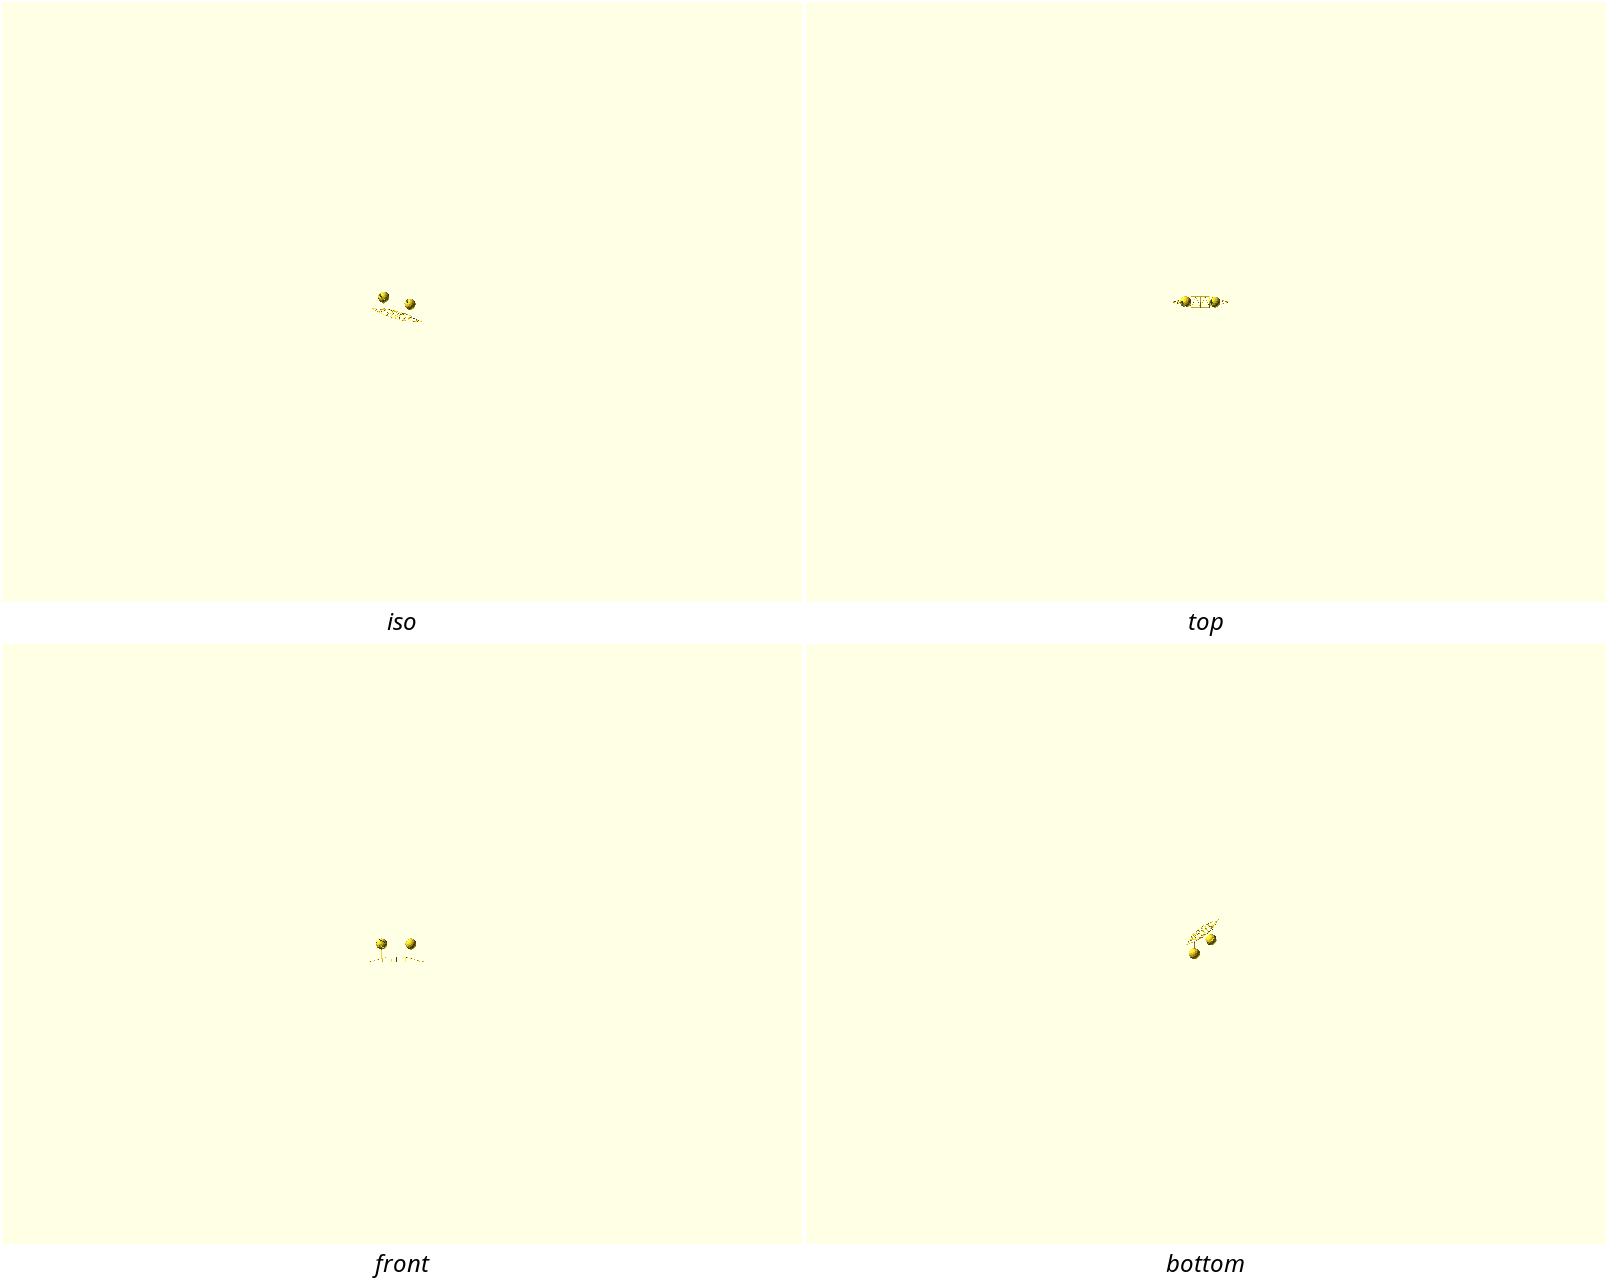
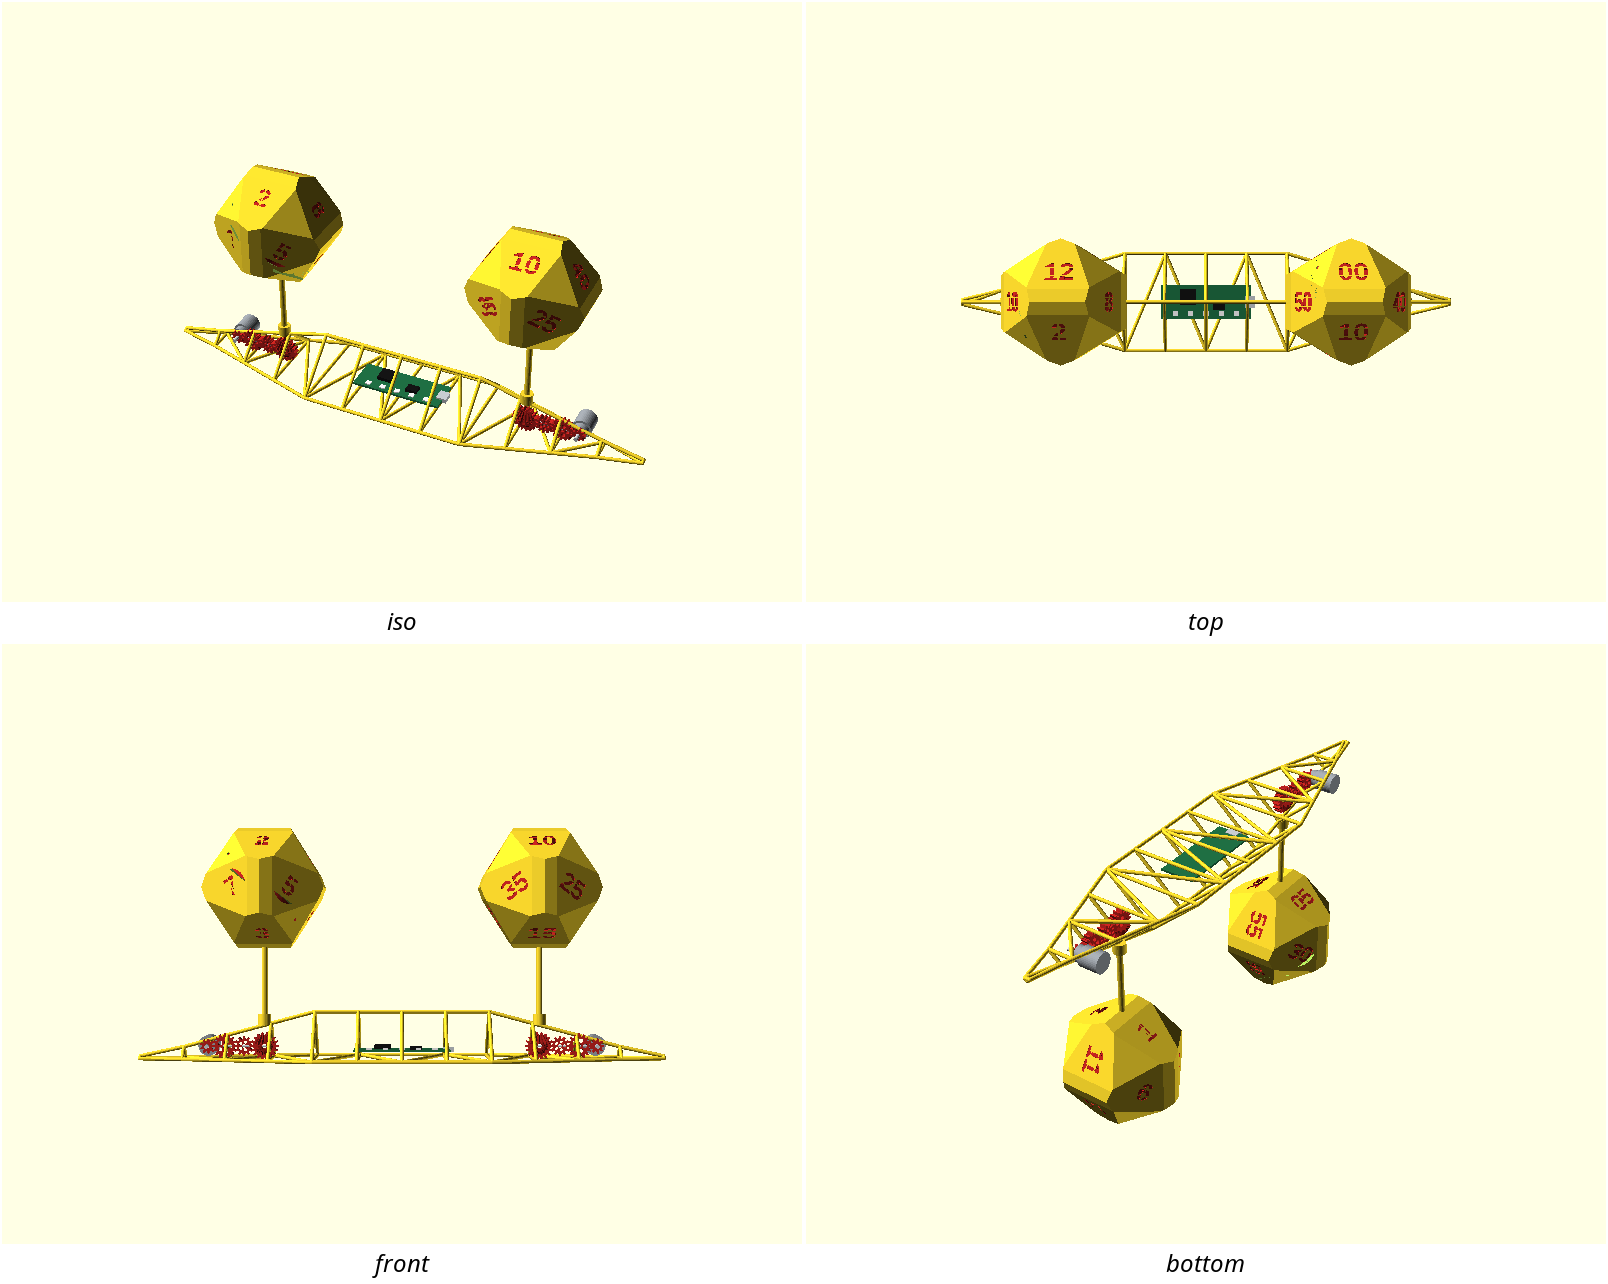
ovodyo: correctness + honesty pass — printable whole ball, keyed seam, bored boss
A fidelity audit found the deliverable couldn't build a complete ball: both
`hours-half` and `minutes-half` were the SAME z>=0 top dome, so hours 1/3/9/11
(and the minutes equivalents) existed on no printable part. Fixes, keeping the
deep mechanical fidelity to the tracked #600-604 issue-PRs:

- Split each ball POLE-UP (tilt atan2(1,PHI) so a pentagon sits at each pole),
  which runs the equatorial cut through the triangle band and bisects NO number
  face. Expose real top AND bottom parts: hours-top/hours-bottom/minutes-top/
  minutes-bottom. Top carries 12/2/4/6/8/10, bottom 1/3/5/7/9/11 — all 12 present
  and intact. Bottom half is flipped so both print flat-cut-face-down.
- Keyed seam register: three dowel bosses at irregular azimuths, drilled through
  the whole ball before the split so the two halves' holes register by
  construction and seat at one clocking (loose dowels + glue; the captive
  threaded/snap seam stays #602).
- Bore the stalk boss so the brass rod actually seats (was a solid stub).
- Make README/NOTES truthful: top+bottom halves and their number sets, the
  dowel-keyed seam, the bored boss, honest framing of the segment joints (#603)
  and the mock-drive sample.

Gate (CI manifold engine): the four ball halves 84/100 PRINTABLE WITH CAVEATS
(watertight, one body — no dropped counter, seam bisects no number),
base-segment/base-end/mock-drive 100/100, all slice, no CRITICAL. Previews
regenerated (the base gained the socket).
[…]

diff --git a/designs/ovodyo/NOTES.md b/designs/ovodyo/NOTES.md
@@ -62,8 +62,20 @@ were produced in-session (design study + `ovodyo-improvement-brainstorm.md`).
   *represent* the drive, they are not cut for a running fit. A real meshing
   involute differential gated as turning is still #604; the reusable
   `lib/spaceframe.scad` + red structural core stay #603.
-- **Printable unit = hemisphere:** a whole ball prints on a point (CRITICAL bed
-  contact). The ball halves cut at the equator and print flat-face-down.
+- **Printable unit = a numbered top + bottom half.** A whole ball prints on a
+  point (CRITICAL bed contact), so each ball splits in two. The split is
+  **pole-up**: the ball is tilted by `atan2(1,PHI)` so a pentagon face sits at
+  each ±z pole, which puts the equatorial cut through the triangle band and
+  bisects **no** number face — the top half carries 12/2/4/6/8/10, the bottom
+  1/3/5/7/9/11 (and the minutes equivalents). This fixes the earlier bug where
+  BOTH `hours-half`/`minutes-half` were the same z≥0 dome, so four numbers lived
+  on no printable part. Parts are now `hours-top`/`hours-bottom`/`minutes-top`/
+  `minutes-bottom`; the bottom half is flipped 180° so it too prints
+  flat-cut-face-down. The halves **key on three dowels** (Ø2.8, irregular
+  azimuths 24/150/262° so they seat at one clocking) drilled through bosses on
+  the inner wall at the seam, in the whole ball before the split so the two
+  halves' holes register by construction. The captive threaded/snap seam stays
+  #602; the faceted dome still has light overhangs (v0 caveat, #602).
 - **Base = tapered space-frame:** the reference base is a long shallow lattice
   that tapers to needle points at both ends. Modelled as a triangular section
   (two bottom chords + a ridge, Warren-diagonal bottom deck) whose width AND
@@ -84,7 +96,7 @@ red interior/two-tone (preview), and the exposed base drivetrain. What remains:
 | Helical slot is a fixed inline cut (not yet a tunable brand module) | #601 (tunable `helical_window` brand module + sever-guard) |
 | Two-tone shown only in preview colour, no committed two-tone reveal render | #600 (two-tone reveal render) |
 | Base drivetrain is a **preview representation** (hand-rolled trapezoidal gears, not involute, not cut to a running fit; no red structural core; not a reusable lib) | #604 (`lib/bevel.scad` real meshing differential + kinematics gate) + #603 (`lib/spaceframe.scad` + red core) |
-| Ball splits as a **crude flat hemisphere**, glued | #602 (flat great-circle mating ring, threaded/snap) |
+| Ball halves key on **loose dowels + glue** (flat butt joint) | #602 (captive threaded/snap mating seam) |
 | Deliverable gated as loose parts; no `ci.plate` | #604 (`ci.plate`/`ci.fusecheck` multi-object 3MF) |
 | Ball generator is design-local | #600 (promote to `lib/`, with a `tri_k` guard + facet mate) |
 | No committed style pack / stylelift metrics | #601 (style pack + facet/openness metrics) |
@@ -96,21 +108,23 @@ red interior/two-tone (preview), and the exposed base drivetrain. What remains:
   overhangs and the sharp facet edges sample as thin walls (both inherent v0
   caveats of splitting a faceted ball at the equator, the #602 seam/orientation
   work). Truss segments: bottom-chord-down (as modelled). Mock-drive gear: flat.
-- `gate.sh --slice ovodyo`: hours-half/minutes-half **76/100 (PRINTABLE WITH
-  CAVEATS** — ~10 % dome overhang, ~4 % thin sampled wall at the facet edges,
-  both #602; watertight, one body — the cut-through numerals do NOT drop a
-  counter), base-segment 100/100, base-end 100/100, mock-drive 100/100; all
-  slice. No CRITICAL, no failure. (The score fell from the debossed-numeral v0's
-  84 because the numerals now cut fully through and the faceting is sharper; the
-  caveats are the seam/orientation ones #602 owns.)
+- `gate.sh --slice ovodyo` (CI manifold engine): hours-top/hours-bottom/
+  minutes-top/minutes-bottom **84/100 (PRINTABLE WITH CAVEATS** — dome overhang
+  + thin sampled wall at the facet edges, both #602; watertight, one body — the
+  cut-through numerals do NOT drop a counter and the seam bisects no number),
+  base-segment 100/100, base-end 100/100 (with the bored stalk socket),
+  mock-drive 100/100; all slice. No CRITICAL, no failure. (Local stable-engine
+  2021.01 scores the halves ~76; the caveats are the seam/orientation ones #602
+  owns.)
 
 ## Resume context
 
-Entry `ovodyo.scad` dispatches on `part`: assembled | hours-half | minutes-half |
-hours-ball | minutes-ball | base-segment | base-end | mock-drive | base-mech |
-pod-drive. The `-ball` parts are the full shells used only in the assembled
-preview; the `-half` parts are the printable units. `base-segment` is the
-constant centre truss; `base-end` is a tapering end wing (print two).
+Entry `ovodyo.scad` dispatches on `part`: assembled | hours-top | hours-bottom |
+minutes-top | minutes-bottom | hours-ball | minutes-ball | base-segment |
+base-end | mock-drive | base-mech | pod-drive. The `-ball` parts are the full
+shells used only in the assembled preview; the `-top`/`-bottom` parts are the
+printable units (pole-up split; `ball_half(hours, top)` builds them). `base-segment`
+is the constant centre truss; `base-end` is a tapering end wing (print two).
 `base-mech` (whole drivetrain) and `pod-drive` (one pod's gear train) are
 PREVIEW-ONLY coloured mechanism — not in `ci.parts`, not printed. The ball's
 faceting is `_GB_TRI_K` in `geodesic-ball.scad`; the numeral stencil ties are

diff --git a/designs/ovodyo/README.md b/designs/ovodyo/README.md
@@ -19,7 +19,8 @@ re-creation, in print-bench, of the "ovodyo" clock by Mectolab — built as a
 > deliberately simplified and tracked as issues: the base gears *represent* the
 > drive but aren't a real meshing involute differential, and the base has no red
 > structural core or reusable space-frame library ([#603](https://github.com/shaiss/print-bench/issues/603)/[#604](https://github.com/shaiss/print-bench/issues/604)); the balls
-> split as crude hemispheres (a proper flat seam is [#602](https://github.com/shaiss/print-bench/issues/602)); the slot isn't
+> split cleanly into a numbered top and bottom half keyed on dowels, but the
+> captive (threaded/snap) seam is still [#602](https://github.com/shaiss/print-bench/issues/602); the slot isn't
 > yet a tunable brand module ([#601](https://github.com/shaiss/print-bench/issues/601)); and there's no committed two-tone
 > reveal render yet ([#600](https://github.com/shaiss/print-bench/issues/600)). See NOTES.md.
 
@@ -34,19 +35,23 @@ re-creation, in print-bench, of the "ovodyo" clock by Mectolab — built as a
 The printable parts (the assembled render is a preview only — a single STL of the
 whole clock would print as one fused lump):
 
-- `hours-half` / `minutes-half` — one hemisphere of each ~78 mm faceted ball,
-  printed flat-face-down (print two of each for a full ball).
+- `hours-top` + `hours-bottom` — the two halves of the ~78 mm hours ball. It is
+  split **pole-up** through the triangle band, so no number face is cut by the
+  seam: the top carries **12, 2, 4, 6, 8, 10** and the bottom **1, 3, 5, 7, 9,
+  11**. Print one of each for a complete hours ball.
+- `minutes-top` + `minutes-bottom` — likewise for the minutes ball (00–55 in 5s).
 - `base-segment` — the constant-section **centre** truss segment (~127 mm).
 - `base-end` — one of the two **tapering end wings** that come to a needle point
-  and carry a stalk boss over the motor pod (print two; three segments total make
-  the ~383 mm base).
-- `mock-drive` — a single representative reduction gear from the base train,
-  kept as a gated printable part.
+  and carry a bored stalk boss over the motor pod (print two; three segments
+  total make the ~383 mm base).
+- `mock-drive` — a single representative reduction gear, kept as a gated
+  printability sample of the (otherwise preview-only) drivetrain, not a placed
+  assembly part.
 
 The base drivetrain (gear-trains, steppers, bevels, PCB) and the balls' red
 interior are **preview-only** — colours are ignored on STL export, so they are
 not printable parts. See them assembled in the hero image and the `base-mech`
-gallery preview. Select a part with `-D 'part="hours-half"'` (or `base-mech` /
+gallery preview. Select a part with `-D 'part="hours-top"'` (or `base-mech` /
 `pod-drive` to preview the mechanism); the default render is the assembled clock.
 
 ## Print settings
@@ -84,9 +89,15 @@ a plain dodecahedron with clean corners.
 
 ## Assembly & use
 
-Print two halves per ball and join them around the drive (v0: glue/tape the crude
-hemisphere seam — a real captive seam is [#602](https://github.com/shaiss/print-bench/issues/602)). Three truss
-segments bolt end to end; a brass rod (≈4.5 mm) is the support stalk from each pod
-to a ball centre. The real clock is driven by a geared stepper through a bevel
-differential and homed with a hall sensor — the electronics and true drive are out
-of scope for this geometry v0 (see NOTES.md and the backlog).
+Print a **top and a bottom half** per ball (they carry different numbers) and
+join them around the equator: three short dowels (≈2.8 mm, e.g. filament
+offcuts) drop into the bosses at the seam and key the halves at one clocking, so
+the facets line up; glue or tape holds them (v0 — a captive threaded/snap seam is
+[#602](https://github.com/shaiss/print-bench/issues/602)). A brass rod (≈4.5 mm) is the support stalk: it seats into the
+bored boss on each end segment and reaches the ball centre. The three truss
+segments join end to end (printed bolt/flange joints are [#603](https://github.com/shaiss/print-bench/issues/603)). The real
+clock is driven by a geared stepper through a bevel differential and homed with a
+hall sensor — the drivetrain here is a preview representation and the electronics
+are out of scope for this geometry v0; the printed drive interface (a hub in the
+ball, an index that lands a face upright, a real meshing differential) is the
+mechanical work tracked in [#600](https://github.com/shaiss/print-bench/issues/600)/[#604](https://github.com/shaiss/print-bench/issues/604). See NOTES.md and the backlog.
